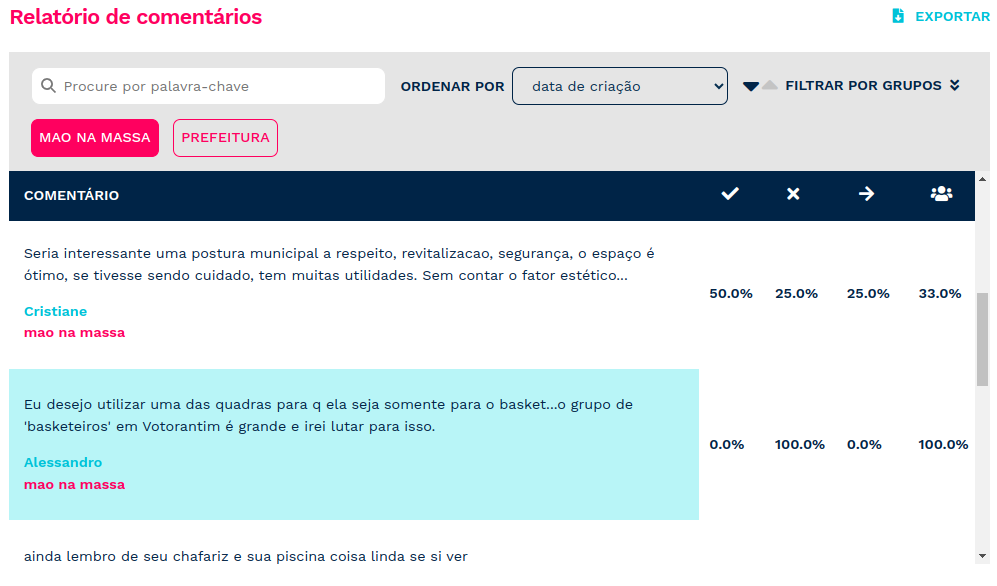
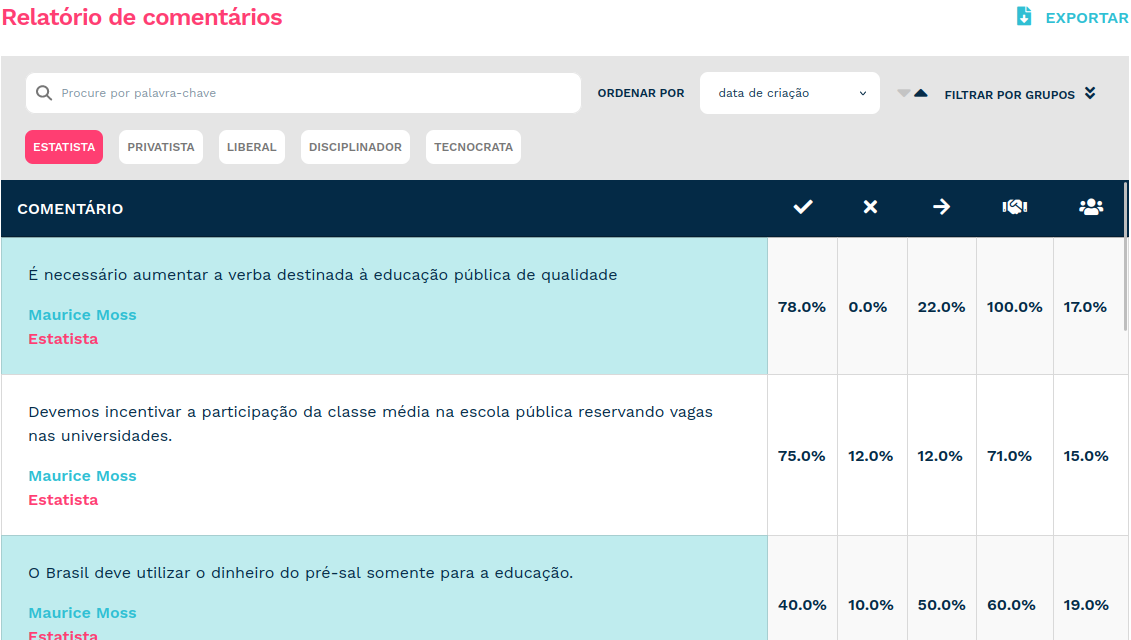
Fix convergence column 1419

diff --git a/src/ej_dataviz/tests/test_models.py b/src/ej_dataviz/tests/test_models.py
@@ -135,24 +135,28 @@ class TestCommentsReport(TestReport):
         assert comments_df.iloc[[0]].get("agree").item() == 100
         assert comments_df.iloc[[0]].get("disagree").item() == 0
         assert comments_df.iloc[[0]].get("skipped").item() == 0
+        assert comments_df.iloc[[0]].get("convergence").item() == 100
         assert comments_df.iloc[[0]].get("participation").item() == 100
 
         assert comments_df.iloc[[1]].get("content").item() == "aaa"
         assert round(comments_df.iloc[[1]].get("agree").item(), 1) == 33.3
         assert round(comments_df.iloc[[1]].get("disagree").item(), 1) == 66.7
         assert comments_df.iloc[[1]].get("skipped").item() == 0
+        assert round(comments_df.iloc[[1]].get("convergence").item(), 1) == 33.3
         assert comments_df.iloc[[1]].get("participation").item() == 100
 
         assert comments_df.iloc[[2]].get("content").item() == "aaaa"
         assert round(comments_df.iloc[[2]].get("agree").item(), 1) == 0
         assert round(comments_df.iloc[[2]].get("disagree").item(), 1) == 100
         assert comments_df.iloc[[2]].get("skipped").item() == 0
+        assert comments_df.iloc[[2]].get("convergence").item() == 100
         assert comments_df.iloc[[2]].get("participation").item() == 100
 
         assert comments_df.iloc[[3]].get("content").item() == "test"
         assert round(comments_df.iloc[[3]].get("agree").item(), 1) == 0
         assert round(comments_df.iloc[[3]].get("disagree").item(), 1) == 100
         assert comments_df.iloc[[3]].get("skipped").item() == 0
+        assert round(comments_df.iloc[[3]].get("convergence").item(), 1) == 100
         assert round(comments_df.iloc[[3]].get("participation").item(), 1) == 33.3
 
         assert comments_df.iloc[[4]].get("content").item() == "comment without vote"

diff --git a/docs/user-guides/pt-br/analysis.rst b/docs/user-guides/pt-br/analysis.rst
@@ -44,7 +44,7 @@ Relatório de comentários
 O relatório de comentários permite analisar a performance dos comentários,
 tanto no geral (considerando todos os participantes) tanto por grupo de opinião.
 É possível filtrar os comentarios pelo conteúdo, pelo nível de concordância, discordância,
-convergência entre outros. Também é possível exportar os dados apresentados, caso o usuário
+convergência, participação, entre outros. Também é possível exportar os dados apresentados, caso o usuário
 queira utilizar outras ferramentas de *dataviz* para realizar suas análises. É possível exportar
 os dados nos formatos "csv" e "json".
 
